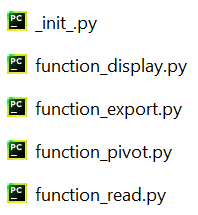
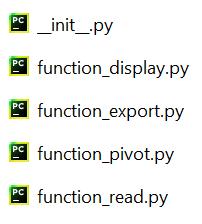
-Minor fix of package structure illustration. -Adding an illustration for the figure output. -Minor fix of the readme / index files.

diff --git a/README.md b/README.md
@@ -76,6 +76,8 @@ Votre projet devra contenir au minimum :
 
 - Une documentation Markdown décrivant votre projet et le fonctionnement de vos fonctions.
 
+Vos codes Python **devront être commentés**.
+
 Vous devrez rendre votre **projet Python complet** en fin de séance, **compressé en format zip**.
 
 Vous pouvez réaliser votre projet par binôme ou trinôme, **à condition d'indiquer dans le README le travail réalisé par chacun sur le projet**.

diff --git a/docs/index.md b/docs/index.md
@@ -76,6 +76,8 @@ Votre projet devra contenir au minimum :
 
 - Une documentation Markdown décrivant votre projet et le fonctionnement de vos fonctions.
 
+Vos codes Python **devront être commentés**.
+
 Vous devrez rendre votre **projet Python complet** en fin de séance, **compressé en format zip**.
 
 Vous pouvez réaliser votre projet par binôme ou trinôme, **à condition d'indiquer dans le README le travail réalisé par chacun sur le projet**.
